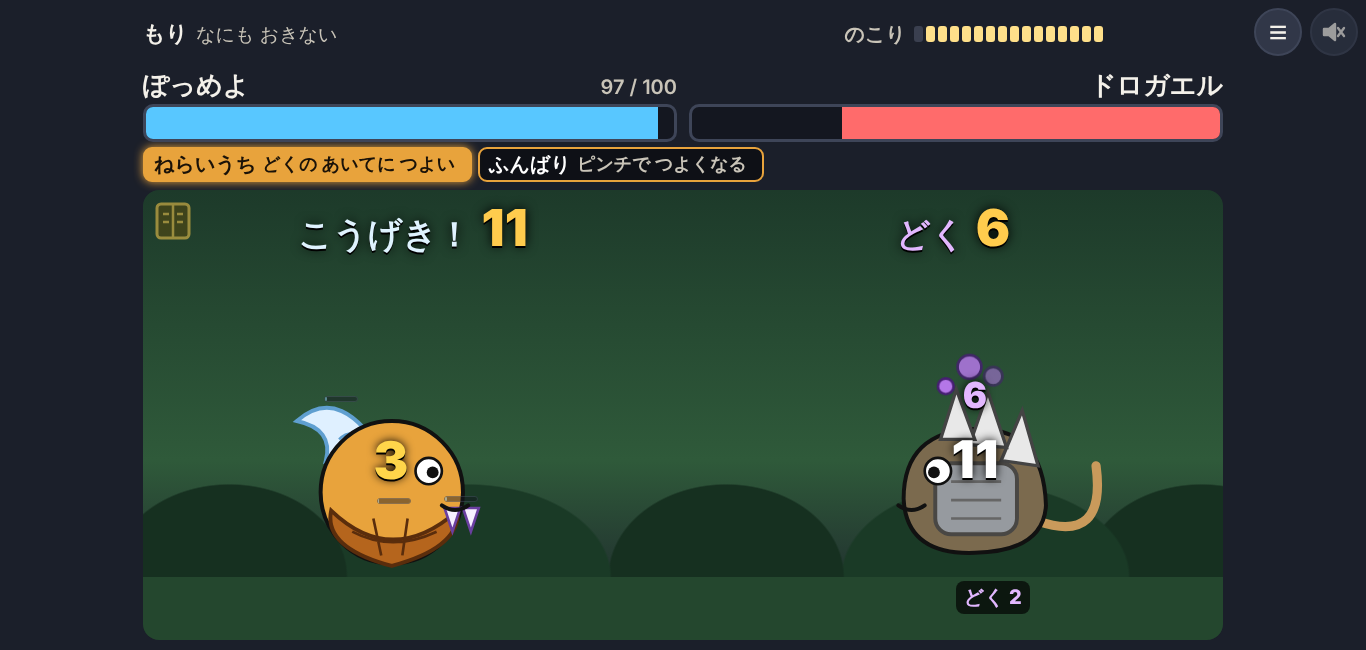
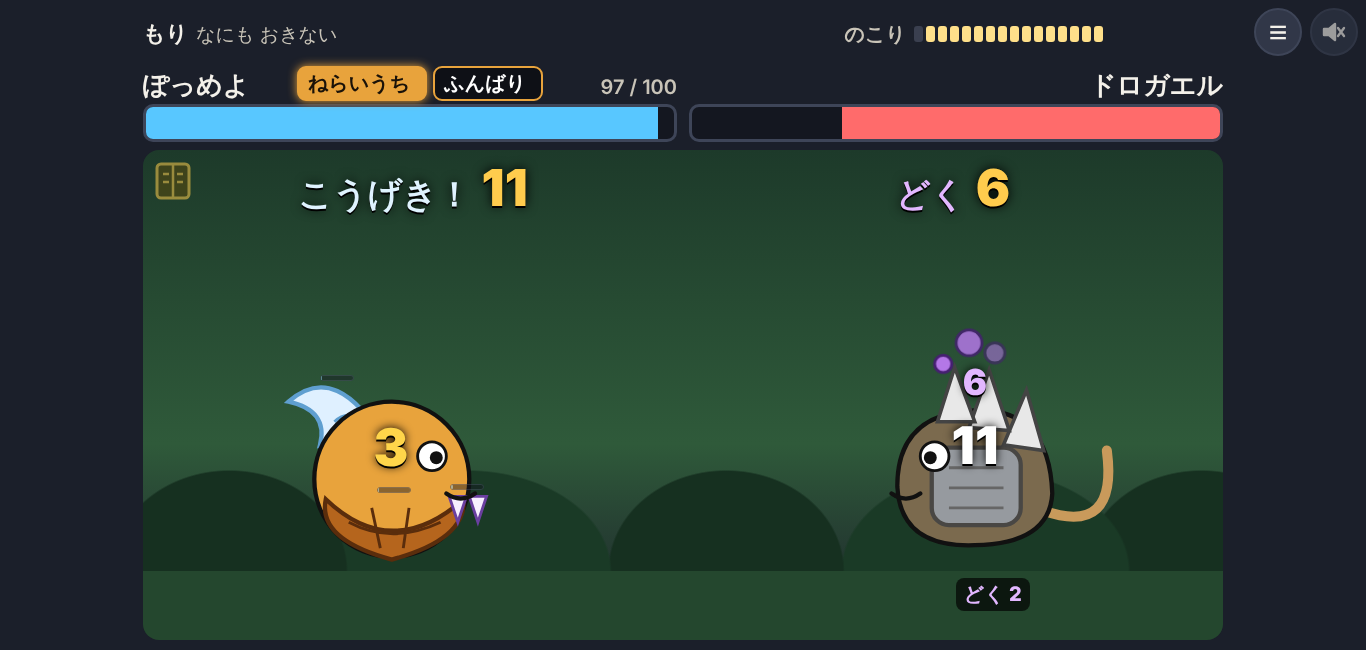
next：低い PC（1366×650・1920×910）は 技の 札を 名前の 行に（戦いの 場を ひくく しない。check.js の 重なり 2 → 0 の ため）
Claude-Session: https://claude.ai/code/session_01MmzYoRMFFR2AvzVvo15aBG

diff --git a/next/index.html b/next/index.html
@@ -305,6 +305,11 @@ span.dendo-note { display: inline-block; margin: 2px 0 4px 8px; vertical-align: 
 .bw.ready .bw-h, .bw.ready .bw-cd { color: #1a1208; }
 .bw.fx-bwfire { animation: bwfire calc(.5s * var(--spd)) ease-out; }
 @keyframes bwfire { 0% { background: var(--sc, #fff); box-shadow: 0 0 16px var(--sc, #fff); filter: brightness(1.4); } 100% { box-shadow: none; filter: none; } } /* 大きさは 変えない（となりの 札と 重ならない） */
+@media (min-width: 900px) { /* 低い PC（1366×650 など）：技の 札は 名前の 行に 入れて 戦いの 場を ひくく しない（ひとことは 合わせる 文で） */
+  :where(html.eshort) .hpBox.p { position: relative; }
+  :where(html.eshort) .b-waza { position: absolute; top: 0; left: 7.5rem; right: 6.5rem; margin: 0; min-height: 0; justify-content: center; }
+  :where(html.eshort) .bw .bw-h { display: none; }
+}
 .b-info { position: absolute; top: 8px; left: 50%; transform: translateX(-50%); width: min(560px, 92%); z-index: 30; display: none; background: #20242ff2; border: 2px solid var(--line); border-radius: 12px; padding: 8px 12px; pointer-events: none; }
 .b-info.on { display: block; }
 @media (max-width: 899px) {
